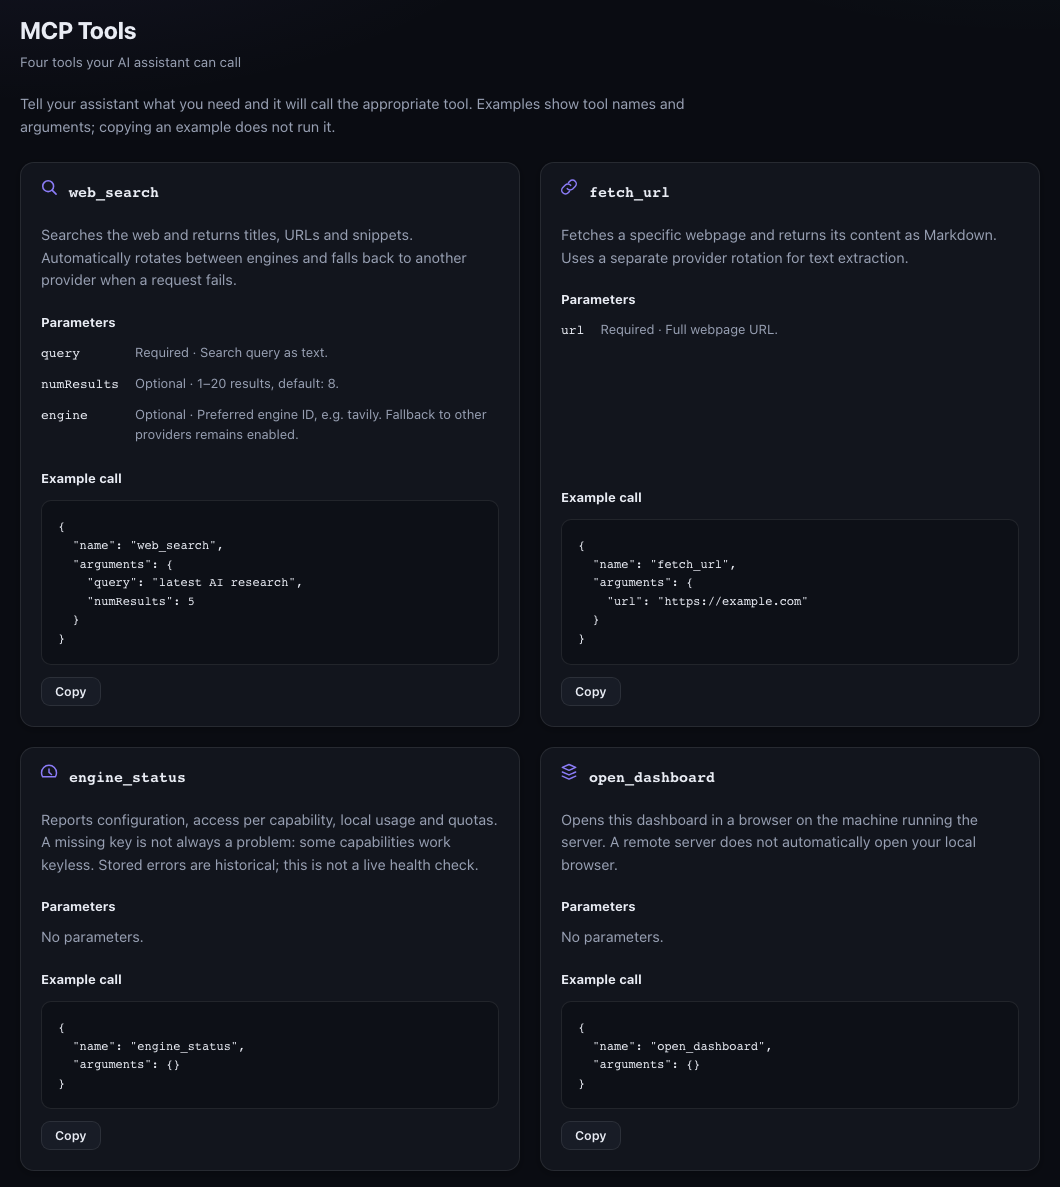
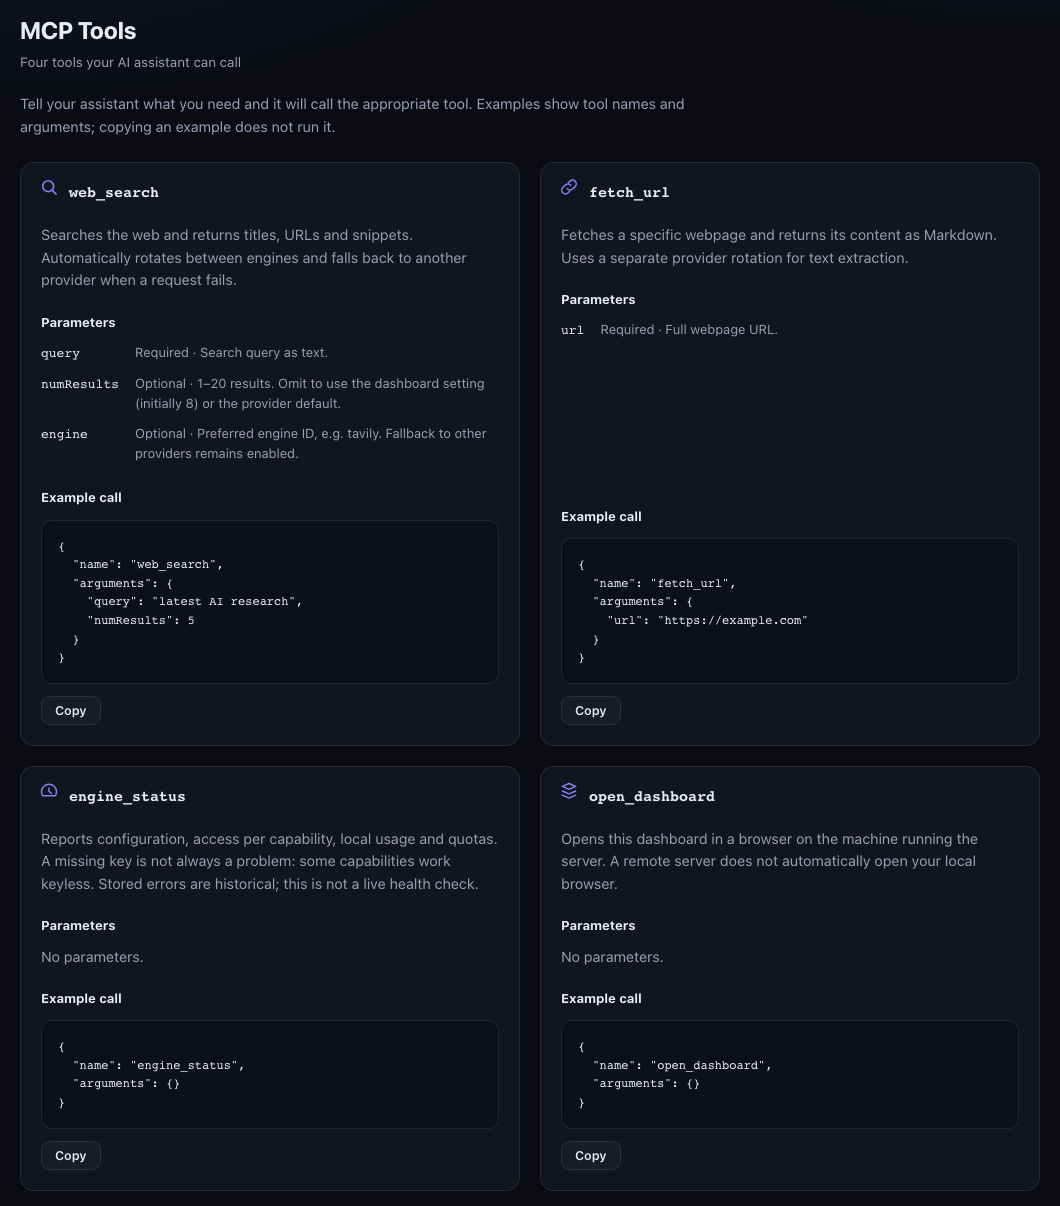
Release v0.3.3: configurable result counts and clearer tool discovery

diff --git a/test/result-defaults.test.ts b/test/result-defaults.test.ts
@@ -1,0 +1,55 @@
+import {test} from 'node:test';
+import assert from 'node:assert/strict';
+import {normalizeConfig} from '../src/config.js';
+import {ADAPTERS,KNOWN_IDS,SEARCH_ORDER,FETCH_ORDER,DEFAULT_ENABLED} from '../src/engines/index.js';
+import {SearchRouter} from '../src/router.js';
+import {UsageStore} from '../src/usage.js';
+import {mkdtempSync,rmSync} from 'node:fs';
+import {tmpdir} from 'node:os';
+import {join} from 'node:path';
+const defaults={knownIds:KNOWN_IDS,searchOrder:SEARCH_ORDER,fetchOrder:FETCH_ORDER,defaultEnabled:DEFAULT_ENABLED};
+test('result default preserves 8, provider null and valid numeric settings',()=>{
+ for(const [value,expected] of [[undefined,8],[null,null],[1,1],[20,20],[0,8],[21,8],[1.5,8],['10',8]] as const){
+  assert.equal(normalizeConfig({settings:{defaultNumResults:value}},defaults).settings.defaultNumResults,expected);
+ }
+});
+test('router resolves explicit count, dashboard default and provider omission across failover',async t=>{
+ const dir=mkdtempSync(join(tmpdir(),'sr-results-'));t.after(()=>rmSync(dir,{recursive:true,force:true}));
+ const cfg=normalizeConfig(null,defaults);const seen:(number|undefined)[]=[];
+ const adapters=['first','second'].map((id,i)=>({meta:{id,label:id,homepage:'',signupUrl:'',capabilities:['search'] as ['search'],keyless:'ip' as const,monthlyFree:0,quotaEndpoint:false},search:async(input:any)=>{seen.push(input.numResults);if(!i)throw Error('failover');return {items:[]};}}));
+ cfg.engines=adapters.map(a=>({id:a.meta.id,enabled:true}));
+ for(const [setting,explicit,expected] of [[8,undefined,8],[12,undefined,12],[null,undefined,undefined],[null,3,3],[12,3,3]] as const){
+  cfg.settings.defaultNumResults=setting;
+  const router=new SearchRouter({getConfig:()=>cfg,usage:new UsageStore(dir),adapters});
+  seen.length=0;await router.search({query:'test',numResults:explicit});assert.deepEqual(seen,[expected,expected]);
+ }
+});
+for(const id of ['tavily','firecrawl','parallel','exa','google-cse'])test(`${id}: provider default omits count on the wire`,async t=>{
+ const a=ADAPTERS.find(a=>a.meta.id===id)!;
+ t.mock.method(globalThis,'fetch',async(url:any,init:any)=>{
+  if(id==='google-cse')assert.equal(new URL(url).searchParams.has('num'),false);
+  else {const body=JSON.parse(init.body);for(const key of ['limit','max_results','numResults'])assert.equal(key in body,false);}
+  return Response.json({results:[],data:{web:[]},items:[]});
+ });
+ await a.search!({query:'test'},{apiKey:'fixture',extra:{cx:'fixture'}});
+});
+
+test('Firecrawl estimates its documented provider default, including the 10-result credit boundary',()=>{
+ const a=ADAPTERS.find(a=>a.meta.id==='firecrawl')!;
+ assert.equal(a.estimateCost!('search',{query:'q'}),2);
+ assert.equal(a.estimateCost!('search',{query:'q',numResults:10}),2);
+ assert.equal(a.estimateCost!('search',{query:'q',numResults:11}),4);
+});
+test('Parallel hosted MCP provider default does not trim returned results to eight',async t=>{
+ t.mock.method(globalThis,'fetch',async (_url:any,init:any)=>{
+  if(init.method==='GET')return new Response(null,{status:405});
+  const body=JSON.parse(init.body);
+  if(body.method==='initialize')return Response.json({jsonrpc:'2.0',id:body.id,result:{protocolVersion:'2025-03-26',capabilities:{tools:{}},serverInfo:{name:'fixture',version:'1'}}});
+  if(body.method==='tools/call'){
+   assert.deepEqual(body.params.arguments,{objective:'q',search_queries:['q']});
+   return Response.json({jsonrpc:'2.0',id:body.id,result:{content:[],structuredContent:{results:Array.from({length:12},(_,i)=>({url:'https://example.com/'+i}))}}});
+  }
+  return new Response(null,{status:202});
+ });
+ assert.equal((await ADAPTERS.find(a=>a.meta.id==='parallel')!.search!({query:'q'},{})).items.length,12);
+});

diff --git a/static/app.js b/static/app.js
@@ -519,6 +519,10 @@ function settingsHtml() {
     '<p class="muted">' + esc(t("settings.strictHelp")) + '</p>' +
     '<label for="request-timeout">' + esc(t("settings.timeout")) + '</label> ' +
     '<input id="request-timeout" type="number" min="1000" max="300000" step="1000" value="' + (settings.requestTimeoutMs ?? 60000) + '">' +
+    '<div class="result-settings"><label for="result-count-mode">' + esc(t("settings.results")) + '</label> ' +
+    '<select id="result-count-mode"><option value="custom"' + (settings.defaultNumResults !== null ? ' selected' : '') + '>' + esc(t("settings.resultsCustom")) + '</option><option value="provider"' + (settings.defaultNumResults === null ? ' selected' : '') + '>' + esc(t("settings.resultsProvider")) + '</option></select> ' +
+    '<input id="result-count" aria-label="' + esc(t("settings.resultsCount")) + '" type="number" required min="1" max="20" step="1" value="' + (settings.defaultNumResults ?? 8) + '"' + (settings.defaultNumResults === null ? ' disabled hidden' : '') + '>' +
+    '<p class="muted">' + esc(t("settings.resultsHelp")) + '</p></div>' +
     '<button class="btn" data-act="save-settings">' + esc(t("btn.save")) + '</button></div>';
 }
 
@@ -528,6 +532,8 @@ function renderEngines() {
   const saved = {};
   const strictDraft = wrap.querySelector("#strict-free")?.checked;
   const timeoutDraft = wrap.querySelector("#request-timeout")?.value;
+  const resultsModeDraft = wrap.querySelector("#result-count-mode")?.value;
+  const resultsCountDraft = wrap.querySelector("#result-count")?.value;
   wrap.querySelectorAll(".keyinput").forEach((el) => {
     if (el.value) saved["key:" + el.dataset.id] = el.value;
   });
@@ -597,6 +603,12 @@ function renderEngines() {
   // Gesicherte Eingaben zurückschreiben
   if (strictDraft !== undefined) wrap.querySelector("#strict-free").checked = strictDraft;
   if (timeoutDraft !== undefined) wrap.querySelector("#request-timeout").value = timeoutDraft;
+  if (resultsModeDraft !== undefined) {
+    wrap.querySelector("#result-count-mode").value = resultsModeDraft;
+    const field = wrap.querySelector("#result-count");
+    field.value = resultsCountDraft;
+    field.disabled = field.hidden = resultsModeDraft === "provider";
+  }
   wrap.querySelectorAll(".keyinput").forEach((el) => {
     const v = saved["key:" + el.dataset.id];
     if (v) el.value = v;
@@ -866,11 +878,15 @@ document.addEventListener("click", async (ev) => {
   if (ev.target.closest('[data-act="save-settings"]')) {
     const timeoutInput = $("#request-timeout");
     if (!timeoutInput.checkValidity()) { timeoutInput.reportValidity(); return; }
+    const providerDefault = $("#result-count-mode").value === "provider";
+    const countInput = $("#result-count");
+    if (!providerDefault && !countInput.checkValidity()) { countInput.reportValidity(); return; }
+    const defaultNumResults = providerDefault ? null : Number(countInput.value);
     const strictFreeMode = $("#strict-free").checked;
     const requestTimeoutMs = Number(timeoutInput.value);
     await queuePut((cfg) => ({
       engines: cfg.engines.map((e) => ({ id: e.id, enabled: e.enabled })),
-      settings: { strictFreeMode, requestTimeoutMs },
+      settings: { strictFreeMode, requestTimeoutMs, defaultNumResults },
     }));
     return;
   }
@@ -1118,4 +1134,11 @@ applyI18n();
 setRoute(parseHash());
 load().catch((e) => {
   if (e.message !== "unauthorized") toast("error", t("toast.error", { msg: e.message }));
+});
+
+// Keep the numeric input out of the provider-default mode.
+document.addEventListener("change", ev => {
+  if (ev.target.id !== "result-count-mode") return;
+  const field = $("#result-count");
+  field.disabled = field.hidden = ev.target.value === "provider";
 });

diff --git a/static/i18n.js b/static/i18n.js
@@ -4,6 +4,11 @@
 
 window.I18N = {
   de: {
+    "settings.resultsHelp": "Eine explizite Anzahl im Tool-Aufruf hat Vorrang. Anbieterstandard lässt die Anzahl offen; Trefferzahl und Kosten können je nach Engine variieren. Firecrawl: geschätzt 2 Credits bis 10 Ergebnisse, 4 ab 11. Ohne API-Key bleiben Anbieterlimits unbekannt.",
+    "settings.resultsCount": "Ergebnisanzahl (1–20)",
+    "settings.resultsProvider": "Anbieterstandard",
+    "settings.resultsCustom": "Eigene Vorgabe",
+    "settings.results": "Standard-Ergebnisanzahl",
     "nav.tools": "MCP Tools",
     "tools.title": "MCP Tools",
     "tools.sub": "Vier Werkzeuge, die dein KI-Assistent aufrufen kann",
@@ -17,7 +22,7 @@ window.I18N = {
     "tools.example": "Beispielaufruf",
     "tools.copy": "Beispiel für {name} kopieren",
     "tools.param.query": "Erforderlich · Suchbegriff als Text.",
-    "tools.param.count": "Optional · 1–20 Ergebnisse, Standard: 8.",
+    "tools.param.count": "Optional · 1–20 Ergebnisse. Ohne Angabe gilt die Dashboard-Vorgabe (anfangs 8) oder der Anbieterstandard.",
     "tools.param.engine": "Optional · Bevorzugte Engine-ID, z. B. tavily. Fallback auf andere Anbieter bleibt aktiv.",
     "tools.param.url": "Erforderlich · Vollständige URL der Webseite.",
 
@@ -136,6 +141,11 @@ window.I18N = {
   },
 
   en: {
+    "settings.resultsHelp": "An explicit count in the tool call takes priority. Provider default omits the count; results and costs may vary by engine. Firecrawl: estimated 2 credits up to 10 results, 4 from 11. Without an API key, provider limits remain unknown.",
+    "settings.resultsCount": "Result count (1–20)",
+    "settings.resultsProvider": "Provider default",
+    "settings.resultsCustom": "Custom count",
+    "settings.results": "Default result count",
     "nav.tools": "MCP Tools",
     "tools.title": "MCP Tools",
     "tools.sub": "Four tools your AI assistant can call",
@@ -149,7 +159,7 @@ window.I18N = {
     "tools.example": "Example call",
     "tools.copy": "Copy example for {name}",
     "tools.param.query": "Required · Search query as text.",
-    "tools.param.count": "Optional · 1–20 results, default: 8.",
+    "tools.param.count": "Optional · 1–20 results. Omit to use the dashboard setting (initially 8) or the provider default.",
     "tools.param.engine": "Optional · Preferred engine ID, e.g. tavily. Fallback to other providers remains enabled.",
     "tools.param.url": "Required · Full webpage URL.",
 

diff --git a/src/web/app.ts b/src/web/app.ts
@@ -40,6 +40,7 @@ function publicConfig(cfg: PolyConfig, adapters: EngineAdapter[]) {
     }),
     fetchOrder: cfg.fetchOrder,
     settings: { port: cfg.settings.port, tokenSet: Boolean(cfg.settings.token),
+      defaultNumResults: cfg.settings.defaultNumResults === undefined ? 8 : cfg.settings.defaultNumResults,
       strictFreeMode: cfg.settings.strictFreeMode ?? false, requestTimeoutMs: cfg.settings.requestTimeoutMs ?? 60_000,
       monthlyLimits: cfg.settings.monthlyLimits, dailyLimits: cfg.settings.dailyLimits ?? {} },
     enginesMeta: adapters.map((a) => a.meta),
@@ -139,6 +140,11 @@ export function buildWebApp(deps: WebDeps) {
       settings.port = body.settings.port;
     }
     if (typeof body.settings?.strictFreeMode === "boolean") settings.strictFreeMode = body.settings.strictFreeMode;
+    if (body.settings && Object.hasOwn(body.settings, "defaultNumResults")) {
+      const value = body.settings.defaultNumResults;
+      if (value !== null && !(Number.isInteger(value) && value >= 1 && value <= 20)) return c.json({ error: "defaultNumResults must be null (provider default) or an integer from 1 to 20" }, 400);
+      settings.defaultNumResults = value;
+    }
     if (Number.isInteger(body.settings?.requestTimeoutMs) && body.settings.requestTimeoutMs >= 1000 && body.settings.requestTimeoutMs <= 300_000) settings.requestTimeoutMs = body.settings.requestTimeoutMs;
     for (const field of ["dailyLimits", "monthlyLimits"] as const) {
       const limits = body.settings?.[field];

diff --git a/test/web-api.test.ts b/test/web-api.test.ts
@@ -538,3 +538,18 @@ test("GET /api/status und /api/meta nutzen die injizierten Deps", async () => {
   assert.equal(body.engines[0].id, "tavily");
   assert.equal(body.engines[0].remainingPct, 99);
 });
+
+test('result-count settings persist null and numbers, reject invalid values and preserve omitted settings', async () => {
+ const {deps,app}=makeApp();
+ for(const value of [null,12,1,20]) {
+  const res=await app.request('/api/config',{method:'PUT',headers:{'content-type':'application/json'},body:JSON.stringify({engines:[],settings:{defaultNumResults:value}})});
+  assert.equal(res.status,200);assert.equal(deps.saved.settings.defaultNumResults,value);
+  assert.equal((await (await app.request('/api/config')).json()).settings.defaultNumResults,value);
+ }
+ for(const value of [0,21,1.5,'provider','',false]) {
+  assert.equal((await app.request('/api/config',{method:'PUT',headers:{'content-type':'application/json'},body:JSON.stringify({engines:[],settings:{defaultNumResults:value}})})).status,400);
+  assert.equal(deps.saved.settings.defaultNumResults,20);
+ }
+ await app.request('/api/config',{method:'PUT',headers:{'content-type':'application/json'},body:JSON.stringify({engines:[]})});
+ assert.equal(deps.saved.settings.defaultNumResults,20);
+});

diff --git a/test/frontend.test.ts b/test/frontend.test.ts
@@ -93,12 +93,13 @@ test("Settings speichern Strict-Free und Gesamttimeout ohne andere Engine-Änder
   const h = harness();
   const sent: any[] = [];
   h.context.api = async (_: string, opts: any) => {sent.push(structuredClone(opts.body)); return {config:opts.body};};
-  h.context.document.querySelector = (selector: string) => selector === "#strict-free" ? {checked:true} : selector === "#request-timeout" ? {value:"45000",checkValidity:()=>true} : h.view;
+  h.context.document.querySelector = (selector: string) => selector === "#strict-free" ? {checked:true} : selector === "#request-timeout" ? {value:"45000",checkValidity:()=>true} : selector === "#result-count-mode" ? {value:"custom"} : selector === "#result-count" ? {value:"12",checkValidity:()=>true} : h.view;
   const button = {};
   for (const handler of h.listeners.get("click")!) await handler({target:{closest:(selector:string)=>selector === '[data-act="save-settings"]' ? button : null}});
   await h.run("putChain");
   assert.equal(sent[0]?.settings.strictFreeMode, true);
   assert.equal(sent[0]?.settings.requestTimeoutMs, 45000);
+  assert.equal(sent[0]?.settings.defaultNumResults, 12);
   assert.deepEqual(sent[0].engines.map((e:any)=>e.id), ["a","b"]);
 });
 

diff --git a/src/engines/firecrawl.ts b/src/engines/firecrawl.ts
@@ -1,5 +1,5 @@
 import type { EngineAdapter, EngineContext, FetchInput, RemoteQuota, SearchInput, SearchOutcome } from "../types.js";
-import { bearer, cap, httpJson } from "./base.js";
+import { bearer, optionalCap as cap, httpJson } from "./base.js";
 
 const BASE = "https://api.firecrawl.dev/v2";
 
@@ -78,7 +78,9 @@ export const FIRECRAWL: EngineAdapter = {
     notes:
       "Gratis-Guthaben mit Konto; kein garantierter monatlicher Reset. Quota per API abrufbar; Reset nach Billing-Periode (Kontostand zählt Remote), nicht am Kalendermonat. Ohne Key nur wenige IP-basierte Requests.",
   },
-  estimateCost: (kind, input) => kind === "search" ? 2 * Math.ceil(cap((input as SearchInput).numResults) / 10) : 1,
+  // Documented Firecrawl v2 default: 10 results (docs.firecrawl.dev/api-reference/endpoint/search).
+  // Cost remains an estimate; do not substitute our dashboard default here.
+  estimateCost: (kind, input) => kind === "search" ? 2 * Math.ceil((cap((input as SearchInput).numResults) ?? 10) / 10) : 1,
   search,
   fetchUrl,
   remoteQuota,

diff --git a/src/config.ts b/src/config.ts
@@ -17,6 +17,8 @@ export interface Settings {
   dailyLimits?: Record<string, number>;
   strictFreeMode?: boolean;
   requestTimeoutMs?: number;
+  /** null delegates result count to the provider; absent preserves legacy default 8. */
+  defaultNumResults?: number | null;
 }
 
 export interface PolyConfig {
@@ -106,6 +108,7 @@ export function normalizeConfig(raw: unknown, d: ConfigDefaults): PolyConfig {
       monthlyLimits,
       dailyLimits: Object.fromEntries(Object.entries(s.dailyLimits ?? {}).filter(([, v]) => typeof v === "number" && Number.isFinite(v) && v >= 0)) as Record<string, number>,
       strictFreeMode: s.strictFreeMode === true,
+      defaultNumResults: s.defaultNumResults === null ? null : Number.isInteger(s.defaultNumResults) && s.defaultNumResults >= 1 && s.defaultNumResults <= 20 ? s.defaultNumResults : 8,
       requestTimeoutMs: Number.isInteger(s.requestTimeoutMs) && s.requestTimeoutMs >= 1000 && s.requestTimeoutMs <= 300_000 ? s.requestTimeoutMs : 60_000,
     },
   };

diff --git a/src/engines/googlecse.ts b/src/engines/googlecse.ts
@@ -1,5 +1,5 @@
 import type { EngineAdapter, EngineContext, SearchInput, SearchOutcome } from "../types.js";
-import { cap, httpJson, NeedsKeyError } from "./base.js";
+import { optionalCap as cap, httpJson, NeedsKeyError } from "./base.js";
 
 const SIGNUP = "https://developers.google.com/custom-search/v1/overview";
 
@@ -11,7 +11,7 @@ async function search(input: SearchInput, ctx: EngineContext): Promise<SearchOut
   url.searchParams.set("key", ctx.apiKey);
   url.searchParams.set("cx", cx);
   url.searchParams.set("q", input.query);
-  url.searchParams.set("num", String(Math.min(cap(input.numResults), 10)));
+  if (input.numResults !== undefined) url.searchParams.set("num", String(Math.min(cap(input.numResults)!, 10)));
   const j = await httpJson<any>(url.toString(), {}, { signal: ctx.signal });
   if (j?.error?.message) throw new Error(`google-cse: ${j.error.message}`);
   const items = (Array.isArray(j?.items) ? j.items : []).map((r: any) => ({

diff --git a/src/mcp/server.ts b/src/mcp/server.ts
@@ -46,7 +46,7 @@ export function buildMcpServer(deps: McpDeps): McpServer {
         "Web search with automatic round-robin across multiple free search APIs (Tavily, Firecrawl, Parallel, Exa, Google PSE, DuckDuckGo) including transparent failover. Returns numbered results with title, URL and snippet.",
       inputSchema: {
         query: z.string().describe("Search query"),
-        numResults: z.number().int().min(1).max(20).optional().describe("Number of results (default 8)"),
+        numResults: z.number().int().min(1).max(20).optional().describe("Optional result count (1–20). Omit to use the dashboard setting: a custom count or the provider default."),
         engine: z.string().optional().describe("Preferred engine id; failover to the other engines stays active"),
       },
     },

diff --git a/src/router.ts b/src/router.ts
@@ -144,7 +144,9 @@ export class SearchRouter {
   }
 
   async search(input: SearchInput, opts: RouterOptions = {}): Promise<SearchResponse> {
-    const { value, engine, attempts } = await this.execute('search', input, opts);
+    const configured = this.opts.getConfig().settings.defaultNumResults;
+    const numResults = input.numResults ?? (configured === null ? undefined : configured ?? 8);
+    const { value, engine, attempts } = await this.execute('search', { ...input, numResults }, opts);
     return { ...(value as SearchOutcome), engine, attempts };
   }
   async fetchUrl(input: FetchInput, opts: RouterOptions = {}): Promise<FetchResponse> {

diff --git a/static/style.css b/static/style.css
@@ -1211,3 +1211,7 @@ a.signup:hover { text-decoration: underline; }
 .two-col > .panel, .health-card { min-width: 0; }
 .panel-head { flex-wrap: wrap; }
 @media(max-width:480px) { .health-grid { grid-template-columns: minmax(0, 1fr); } .btn, .drawer-toggle, .nav-tab, .icon-btn { min-height: 44px; } }
+
+.result-settings { margin: 18px 0; }
+.result-settings select { max-width: 100%; }
+#result-count { width: 84px; }
